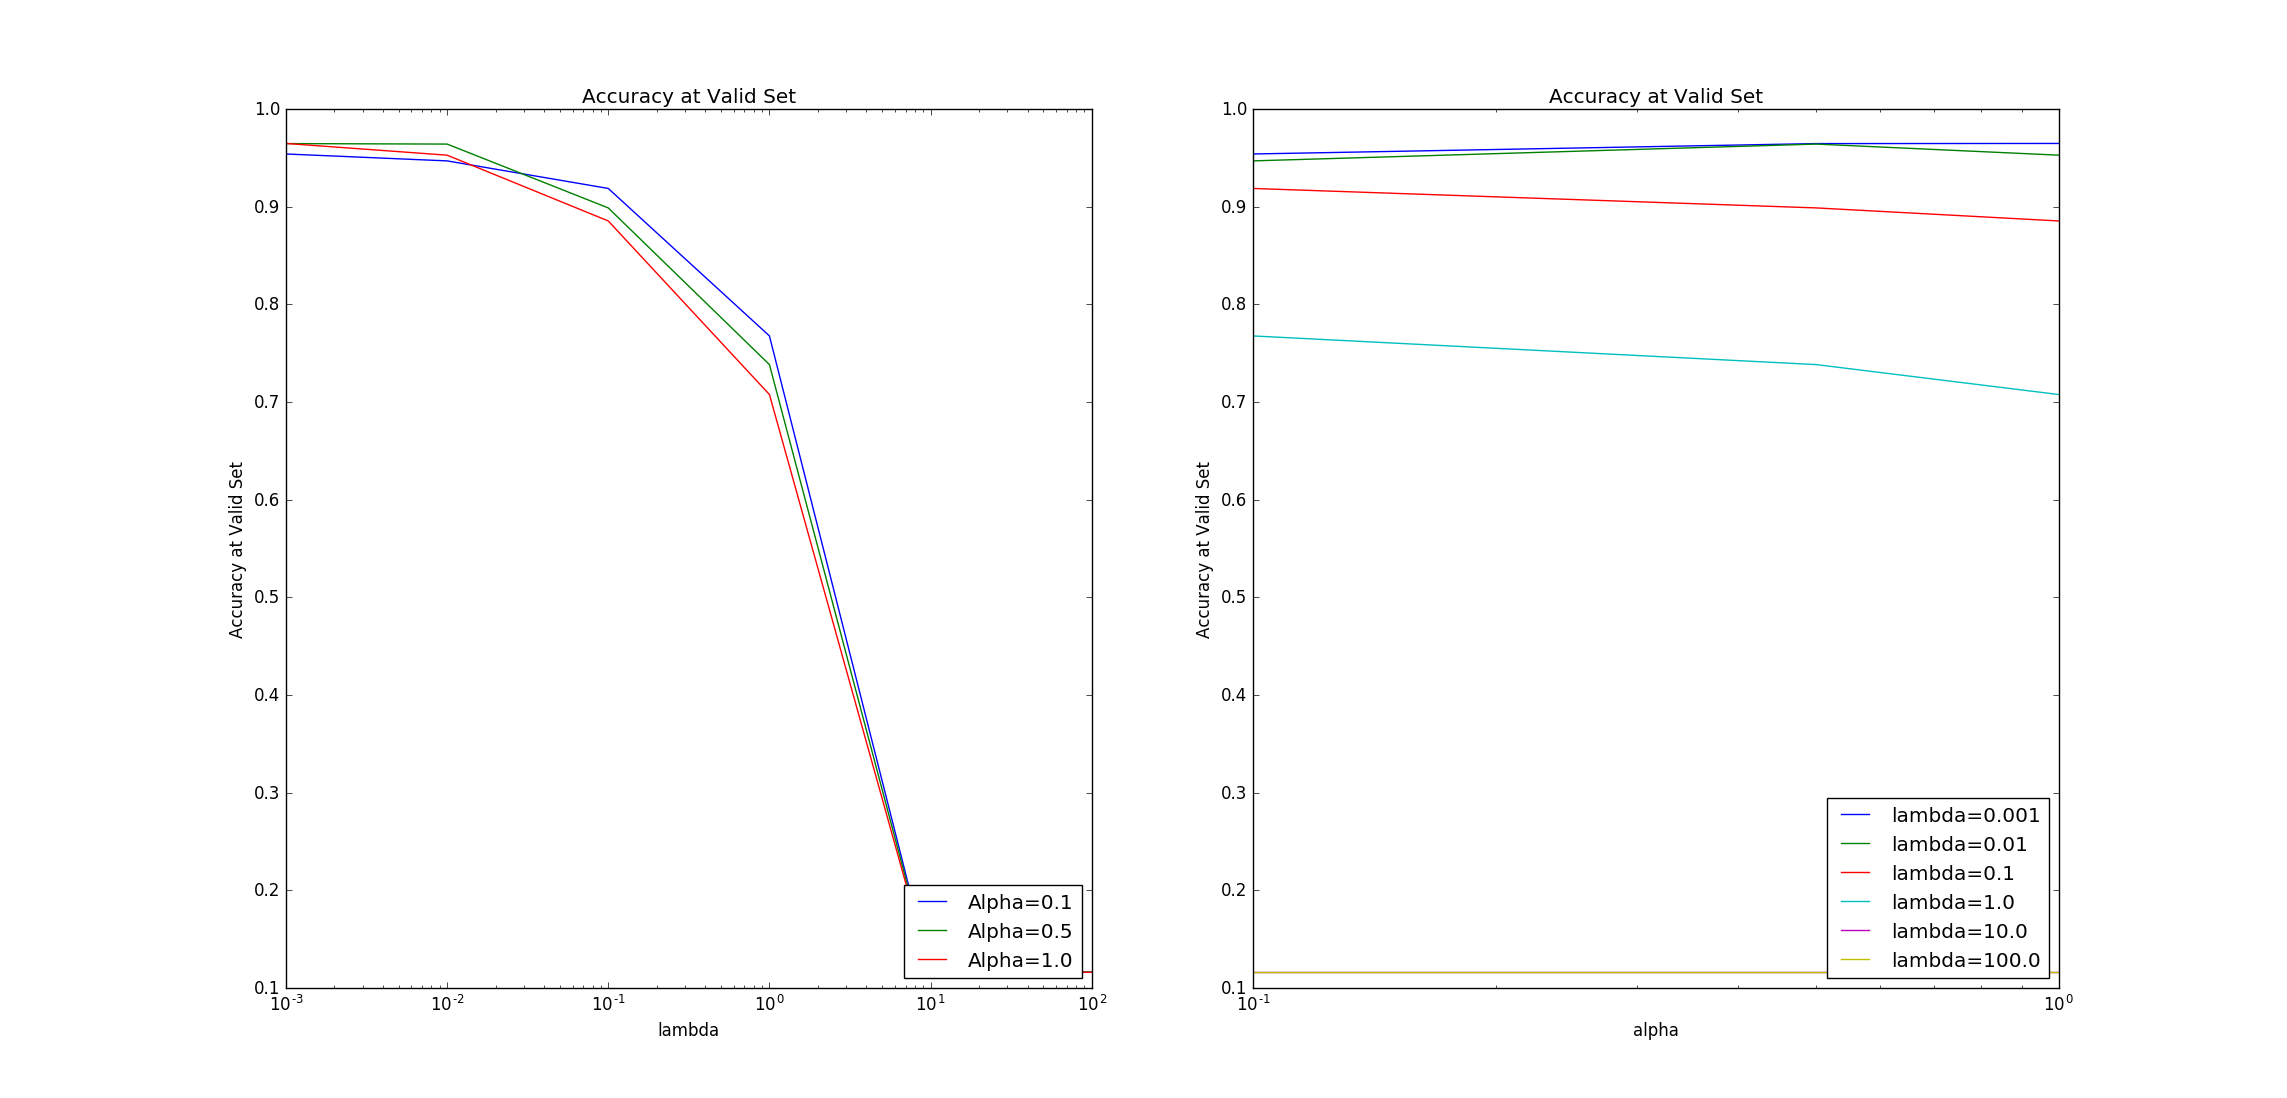
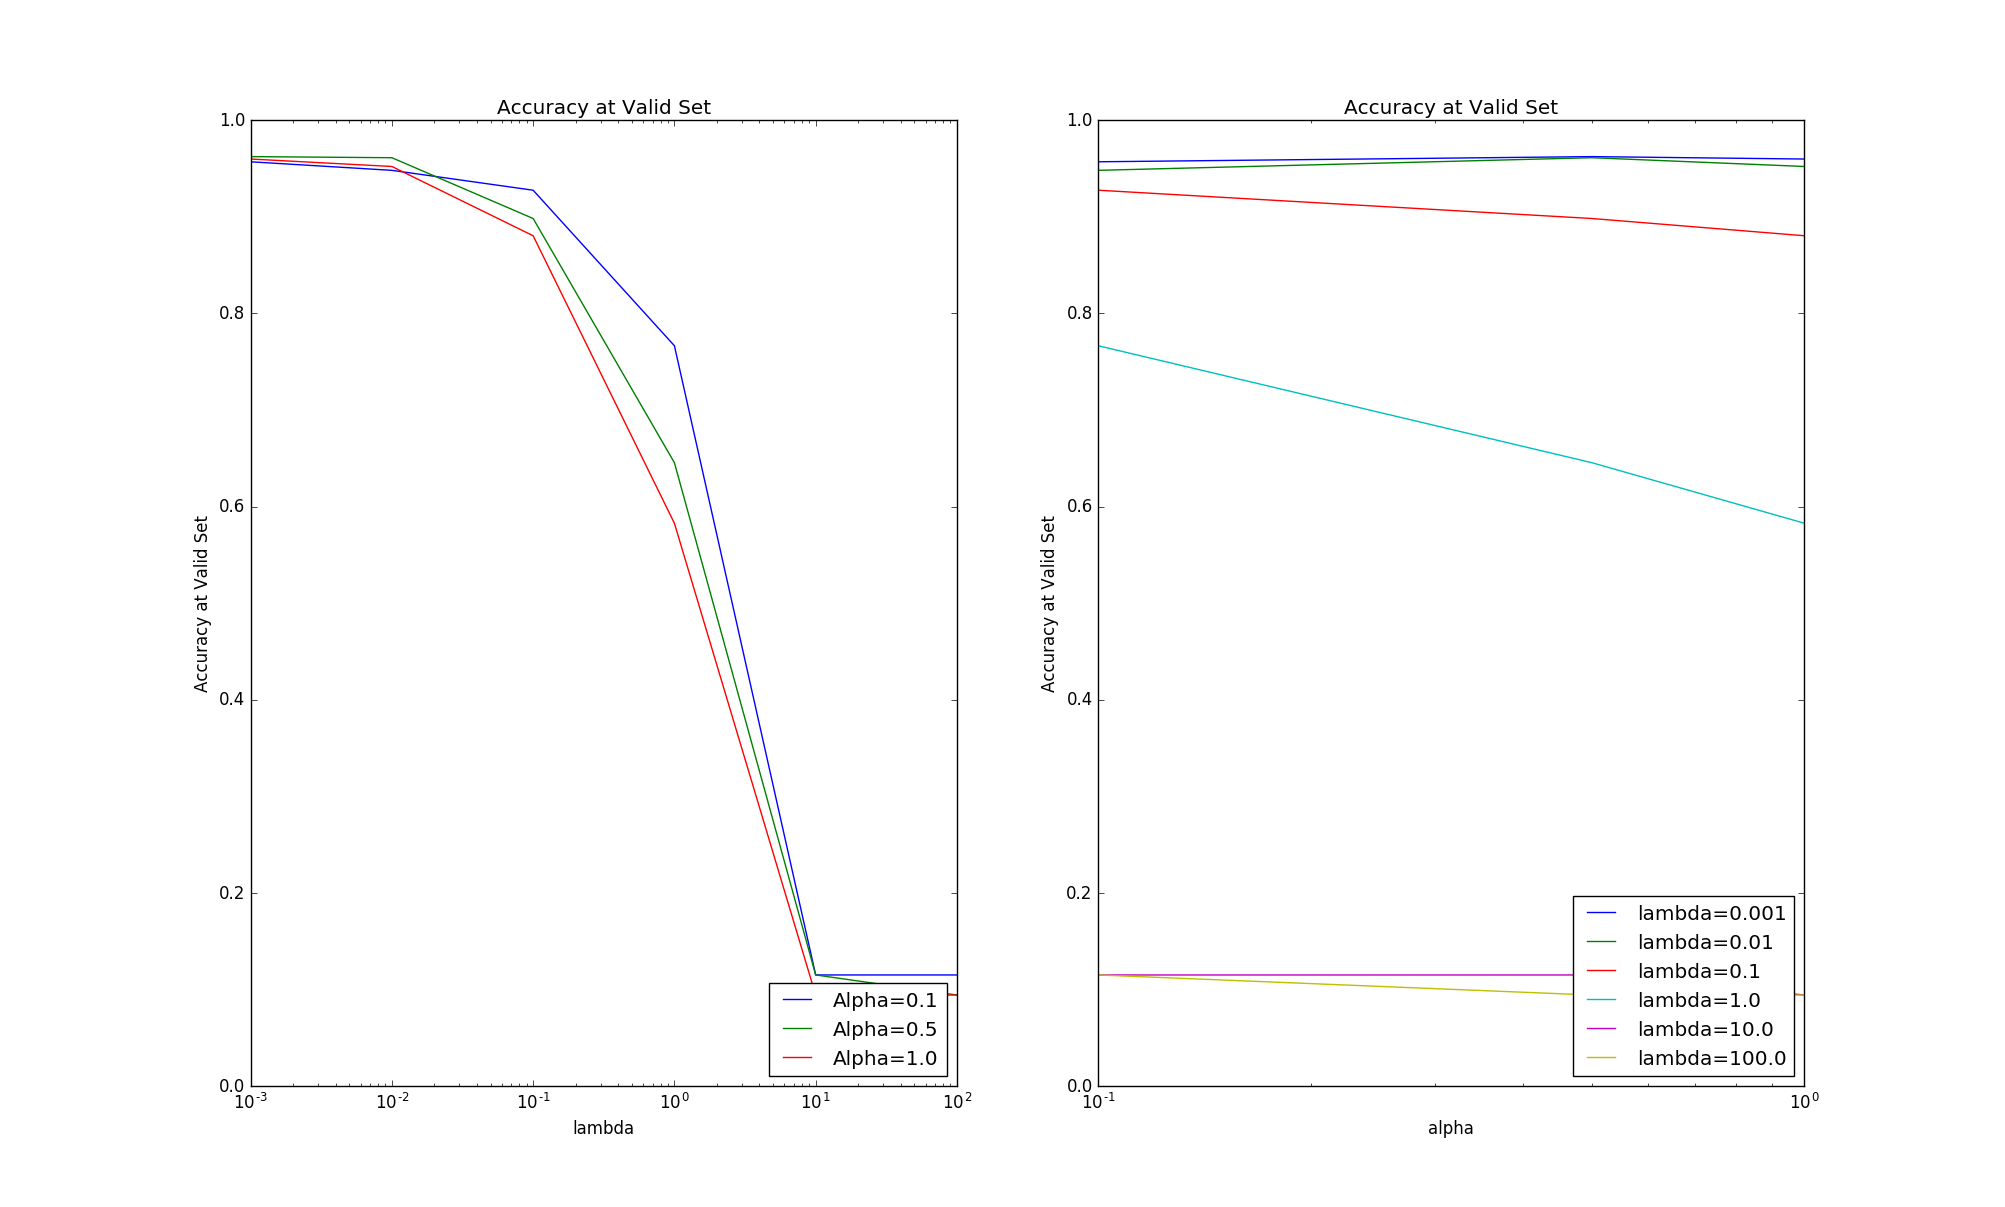
Tensor Flow (GPU)

diff --git a/MNIST/README.md b/MNIST/README.md
@@ -2,8 +2,8 @@ Copyright (C) 2016 Daisuke Hashimoto. All Rights Reserved.
 # MNIST
 ## Summary
 * Neural Network (3 layer)
-  * time = 124min
-  * Error Rate = 0.040785714285999974
+  * time = 11min(GPU) / 124min(CPU)
+  * Error Rate = 0.043714285714000045
 * SVM Gaussian Kernel (RBF) (Batch Analysis)
   * time = 81min
   * Error Rate = 0.0575967741935
@@ -23,18 +23,20 @@ Copyright (C) 2016 Daisuke Hashimoto. All Rights Reserved.
 * number of training sets: 42000
 * number of training sets: 14000
 * number of test sets: 14000
+* number of hidden node: 1024
 * Grid Search
   * Learning Rate: 3 patterns
   * Lambda: 6 patterns
 
 ### Results
 * Validation Results
-  * Time of training = 7416sec (124min)
-  * Best Score=0.964857142857
+  * Time of training(GPU) = 633sec (11min)
+  * Time of training(CPU) = 7416sec (124min)
+  * Best Score=0.962357142857
   * Best Parm={'alpha':1.0,	'lambda':0.001}
 * Test Results
-  * Accuracy=0.959214285714
-  * Error Rate=0.040785714285999974
+  * Accuracy=0.956285714286
+  * Error Rate=0.043714285714000045
 
 ![Accuracy 3-layer deep learning](TensorFlow_DeepLearning.png)
 
